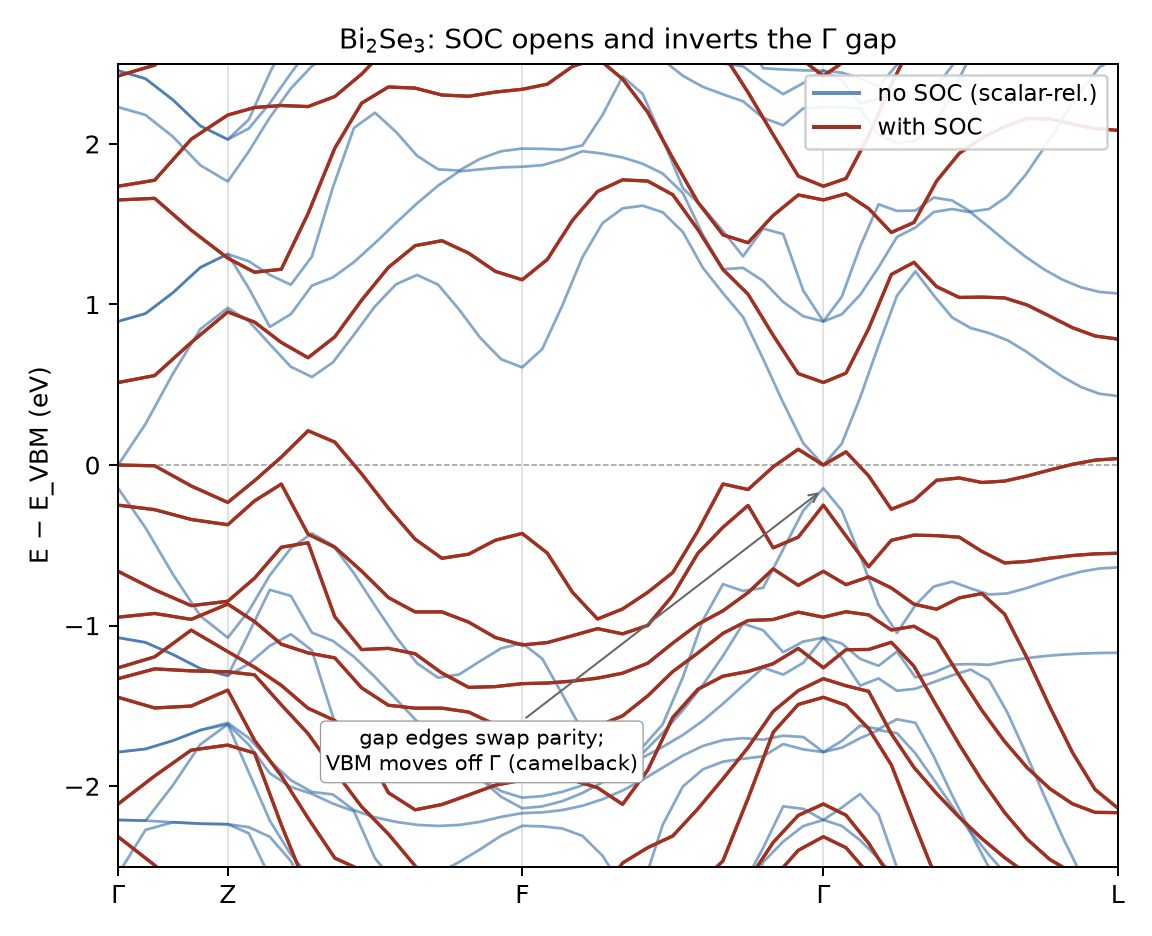
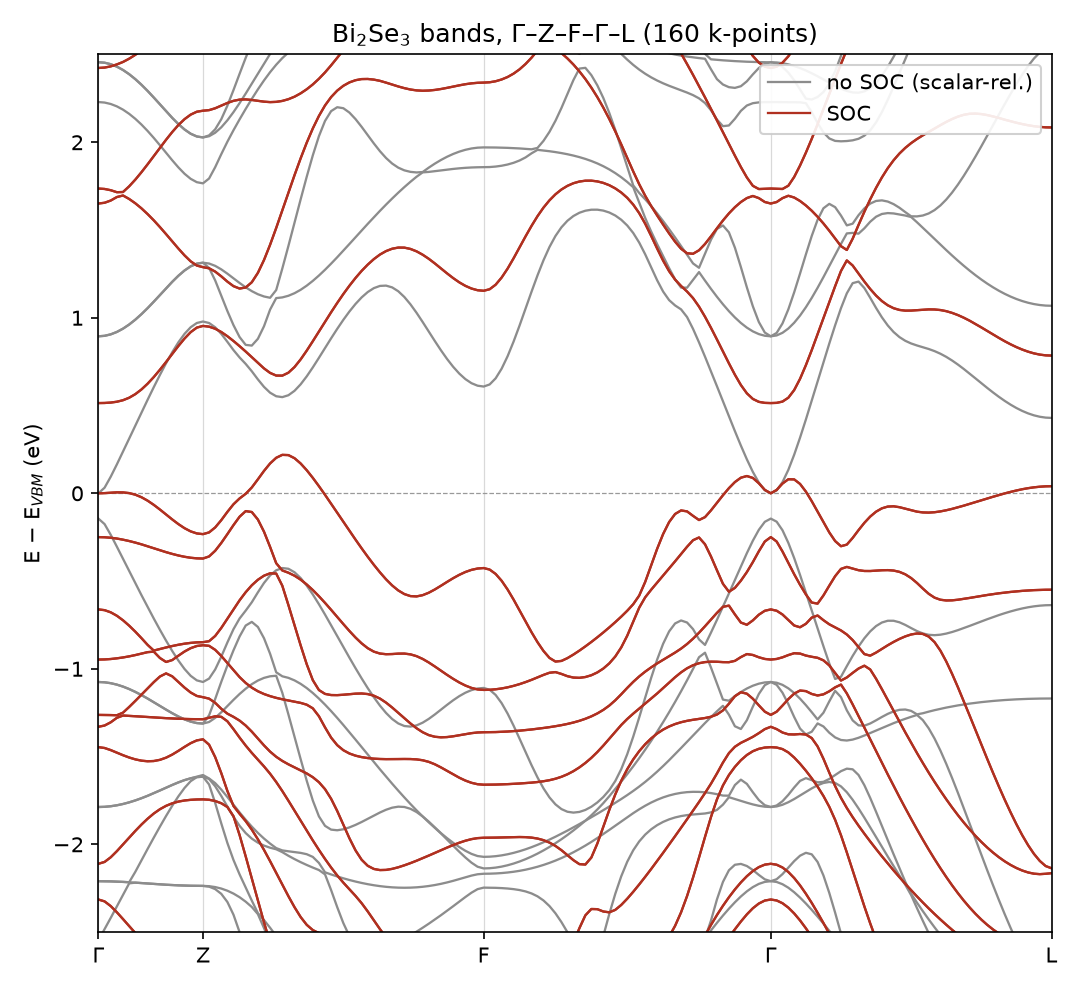
bands: restore the SOC spinor band path and ship a runnable Bi2Se3 example
band_structure_nc (frozen-potential spinor Davidson along an arbitrary k-path) was removed from scf/noncollinear.py, which left examples/bi2se3_bands_compare.py broken. Restore it, rebuild the example against the current API with an overlay-plot step, recover the dense 160-k SR-vs-SOC figure and JSONs, and add tests/integration/test_bands_nc.py so the path cannot silently rot again (band_structure_nc reproduces the SCF spectrum at mesh k-points).

diff --git a/examples/bi2se3_bands_compare.py b/examples/bi2se3_bands_compare.py
@@ -1,0 +1,182 @@
+"""Bi2Se3 band-structure comparison: scalar-relativistic (no SOC) vs SOC.
+
+Runs both branches along the SAME G-Z-F-G-L path with a shared k-point count
+so the two band structures overlay on one linear-k axis. This is the
+"more-k" companion to examples/bi2se3_inversion.py, which only probes the
+band inversion at Gamma.
+
+  no-SOC : SG15 scalar-relativistic pseudos, collinear PBE, bands_along_ase_path.
+  SOC    : PseudoDojo fully-relativistic (FR) pseudos, non-magnetic spinor
+           PBE, band_structure_nc (frozen-potential spinor Davidson).
+
+Writes bi2se3_sr_bands.json, bi2se3_soc_bands.json, and the overlay figure
+bi2se3_bands_overlay.png (the overlay needs matplotlib).
+
+Usage: python examples/bi2se3_bands_compare.py [npoints] [outdir]
+"""
+import json
+import sys
+import time
+
+import numpy as np
+import torch
+from ase import Atoms
+
+from gradwave.core.xc.noncollinear import NoncollinearXC
+from gradwave.core.xc.pbe import PBE
+from gradwave.core.xc.spin import SpinPBE
+from gradwave.postscf.bands import bands_along_ase_path
+from gradwave.pseudo.upf import parse_upf
+from gradwave.scf.loop import scf, setup_system
+from gradwave.scf.noncollinear import band_structure_nc, scf_noncollinear
+
+RY = 13.605693122994
+PSE = "tests/fixtures/qe/pseudos"
+
+A_HEX, C_HEX = 4.138, 28.64
+MU, NU = 0.399, 0.206
+CELL = np.array([
+    [A_HEX / 2, A_HEX / (2 * np.sqrt(3)), C_HEX / 3],
+    [-A_HEX / 2, A_HEX / (2 * np.sqrt(3)), C_HEX / 3],
+    [0.0, -A_HEX / np.sqrt(3), C_HEX / 3],
+])
+FRAC = np.array([[0, 0, 0], [NU, NU, NU], [-NU, -NU, -NU],
+                 [MU, MU, MU], [-MU, -MU, -MU]])
+SPECIES = [0, 0, 0, 1, 1]  # 0 = Se, 1 = Bi
+ECUT = 45 * RY
+
+
+def plot_overlay(sr_json, soc_json, out_png, npoints):
+    """SR (grey) vs SOC (red) overlay from the two band JSONs, VBM-referenced."""
+    try:
+        import matplotlib
+        matplotlib.use("Agg")
+        import matplotlib.pyplot as plt
+    except ImportError:
+        print("matplotlib not installed; skipping the overlay figure", flush=True)
+        return
+    sr = json.load(open(sr_json))
+    so = json.load(open(soc_json))
+    fig, ax = plt.subplots(figsize=(7.2, 6.6))
+    x_sr = np.asarray(sr["x"])
+    e_sr = np.asarray(sr["eigenvalues_eV"]) - sr["reference_eV"]
+    for b in range(e_sr.shape[1]):
+        ax.plot(x_sr, e_sr[:, b], color="0.55", lw=1.1, zorder=1,
+                label="no SOC (scalar-rel.)" if b == 0 else None)
+    x_so = np.asarray(so["x"])
+    e_so = np.asarray(so["eigenvalues_eV"]) - so["reference_eV"]
+    for b in range(e_so.shape[1]):
+        ax.plot(x_so, e_so[:, b], color="#b03020", lw=1.1, zorder=2,
+                label="SOC" if b == 0 else None)
+    for xt, _lab in so["labels"]:
+        ax.axvline(xt, color="0.85", lw=0.6, zorder=0)
+    ax.axhline(0.0, color="0.6", lw=0.6, ls="--", zorder=0)
+    ax.set_xticks([xt for xt, _ in so["labels"]])
+    ax.set_xticklabels([lab.replace("G", "Γ") for _, lab in so["labels"]])
+    ax.set_ylabel("E − E$_{VBM}$ (eV)")
+    ax.set_ylim(-2.5, 2.5)
+    ax.set_xlim(float(x_so[0]), float(x_so[-1]))
+    ax.set_title(f"Bi$_2$Se$_3$ bands, Γ–Z–F–Γ–L ({npoints} k-points)")
+    ax.legend(loc="upper right", framealpha=0.9)
+    fig.tight_layout()
+    fig.savefig(out_png, dpi=150)
+    print(f"  wrote {out_png}", flush=True)
+
+
+def main(npoints, outdir):
+    torch.set_num_threads(8)
+    dev = "cuda" if torch.cuda.is_available() else "cpu"
+    atoms = Atoms("Se3Bi2", scaled_positions=FRAC % 1.0, cell=CELL, pbc=True)
+    print(f"Bi2Se3 band comparison  npoints={npoints}  device={dev}", flush=True)
+
+    # ---------------- scalar-relativistic (no SOC) ----------------
+    print("\n=== no-SOC (SG15 SR pseudos, collinear PBE) ===", flush=True)
+    se = parse_upf(f"{PSE}/Se_ONCV_PBE-1.1.upf")
+    bi = parse_upf(f"{PSE}/Bi_ONCV_PBE-1.0.upf")
+    t0 = time.time()
+    sys_sr = setup_system(CELL, FRAC @ CELL, SPECIES, [se, bi], ecut=ECUT,
+                          kmesh=(2, 2, 2), nbands=30)
+    if dev != "cpu":
+        sys_sr = sys_sr.to(dev)
+    r_sr = scf(sys_sr, PBE(), smearing="gaussian", width=0.05,
+               etol=1e-7, rhotol=1e-6, verbose=False)
+    if dev != "cpu":
+        torch.cuda.synchronize()
+    t_sr_scf = time.time() - t0
+    print(f"  SCF conv={r_sr.converged} iters={r_sr.n_iter} "
+          f"ne={sys_sr.n_electrons:.0f} ({t_sr_scf:.0f}s)", flush=True)
+
+    t0 = time.time()
+    bs = bands_along_ase_path(r_sr, atoms, "GZFGL", npoints=npoints, nbands=30,
+                              verbose=True)
+    if dev != "cpu":
+        torch.cuda.synchronize()
+    t_sr_bands = time.time() - t0
+    json.dump({
+        "x": bs.x.tolist(), "labels": bs.labels,
+        "eigenvalues_eV": bs.eigenvalues.tolist(), "reference_eV": bs.reference,
+        "kpts_frac": bs.kpts_frac.tolist(),
+        "timings": {"scf_s": t_sr_scf, "bands_s": t_sr_bands},
+    }, open(f"{outdir}/bi2se3_sr_bands.json", "w"))
+    print(f"  bands ({t_sr_bands:.0f}s); wrote {outdir}/bi2se3_sr_bands.json",
+          flush=True)
+
+    # Release the SR allocator arena before the (heavier) SOC branch — otherwise
+    # PyTorch's cached SR blocks fragment the pool and the FR spinor SCF, which
+    # needs nearly the whole card, OOMs on a small (~6 GB) GPU.
+    del sys_sr, r_sr, se, bi
+    if dev != "cpu":
+        torch.cuda.empty_cache()
+
+    # ---------------- SOC (PseudoDojo FR, non-magnetic spinor) ----------------
+    print("\n=== SOC (PseudoDojo FR pseudos, non-magnetic spinor PBE) ===",
+          flush=True)
+    se_fr = parse_upf(f"{PSE}/PD_Se_FR.upf")
+    bi_fr = parse_upf(f"{PSE}/PD_Bi_FR.upf")
+    t0 = time.time()
+    sys_fr = setup_system(CELL, FRAC @ CELL, SPECIES, [se_fr, bi_fr], ecut=ECUT,
+                          kmesh=(2, 2, 2), nbands=45, time_reversal=False)
+    if dev != "cpu":
+        sys_fr = sys_fr.to(dev)
+    xc_nc = NoncollinearXC(SpinPBE())
+    r_fr = scf_noncollinear(sys_fr, xc_nc, mag_vec_init=[[0, 0, 0]] * 5,
+                            smearing="gaussian", width=0.05, etol=1e-7,
+                            rhotol=1e-6, verbose=False, nonmagnetic=True)
+    if dev != "cpu":
+        torch.cuda.synchronize()
+    t_fr_scf = time.time() - t0
+    nocc = int(round(sys_fr.n_electrons))  # spinor bands hold 1 electron each
+    print(f"  SCF conv={r_fr.converged} iters={r_fr.n_iter} ne={nocc} "
+          f"({t_fr_scf:.0f}s)", flush=True)
+
+    bp = atoms.cell.bandpath("GZFGL", npoints=npoints)
+    t0 = time.time()
+    eigs = band_structure_nc(r_fr, xc_nc, bp.kpts, nbands=88, verbose=True)
+    if dev != "cpu":
+        torch.cuda.synchronize()
+    t_fr_bands = time.time() - t0
+
+    x, xticks, xlabels = bp.get_linear_kpoint_axis()
+    # reference = VBM: highest occupied (index nocc-1) at Gamma
+    ik_gamma = int(np.argmin(np.linalg.norm(bp.kpts, axis=1)))
+    ref = float(np.sort(eigs[ik_gamma])[nocc - 1])
+    json.dump({
+        "x": x.tolist(),
+        "labels": list(zip(xticks.tolist(), list(xlabels), strict=True)),
+        "eigenvalues_eV": eigs.tolist(), "reference_eV": ref,
+        "kpts_frac": bp.kpts.tolist(), "n_occupied": nocc,
+        "timings": {"scf_s": t_fr_scf, "bands_s": t_fr_bands},
+    }, open(f"{outdir}/bi2se3_soc_bands.json", "w"))
+    print(f"  bands ({t_fr_bands:.0f}s); wrote {outdir}/bi2se3_soc_bands.json",
+          flush=True)
+
+    plot_overlay(f"{outdir}/bi2se3_sr_bands.json",
+                 f"{outdir}/bi2se3_soc_bands.json",
+                 f"{outdir}/bi2se3_bands_overlay.png", npoints)
+    print("\ndone.", flush=True)
+
+
+if __name__ == "__main__":
+    npoints = int(sys.argv[1]) if len(sys.argv) > 1 else 160
+    outdir = sys.argv[2] if len(sys.argv) > 2 else "."
+    main(npoints, outdir)

diff --git a/src/gradwave/scf/noncollinear.py b/src/gradwave/scf/noncollinear.py
@@ -449,3 +449,77 @@ def scf_noncollinear(
         rho=rho, m=m, eigenvalues=eigs, system=system, history=history,
         coeffs=coeffs,
     )
+
+
+def band_structure_nc(res: NCResult, xc: NoncollinearXC, kpts_frac,
+                      nbands: int | None = None, diago_tol: float = 1e-8,
+                      chunk: int = 4, verbose: bool = False,
+                      mixed_precision: bool = False):
+    """Spinor band energies along arbitrary k (SOC-aware): rebuilds the
+    converged potential from (ρ, m⃗) and solves per path chunk."""
+    import numpy as np
+
+    from gradwave.core.batch import build_batched
+    from gradwave.core.hamiltonian import build_projector_data
+    from gradwave.core.spinor_proj import build_so_projectors
+    from gradwave.grids import build_gsphere
+    from gradwave.pseudo.kb import beta_form_factors
+    from gradwave.solvers.davidson import davidson_batched_ms
+
+    system = res.system
+    grid = system.grid
+    device = res.rho.device
+    nbands = nbands or 2 * system.nbands
+    kpts = np.asarray(kpts_frac, dtype=float)
+
+    # rebuild converged V, B
+    rho_g_box = r_to_g(res.rho.to(CDTYPE))
+    v_h = (torch.fft.ifftn(hartree_potential_g(rho_g_box, grid.g2),
+                           dim=(-3, -2, -1)) * grid.n_points).real
+    v_xc, b_xc, _ = vxc_and_bxc(xc, res.rho, res.m, grid, rho_core=system.rho_core)
+    if float(res.m.abs().max()) < 1e-12:
+        b_xc = torch.zeros_like(b_xc)
+    vloc_g = local_potential_g(system.positions, system.species_index,
+                               system.vloc_tables, grid.g_cart, grid.volume)
+    vloc_r = (torch.fft.ifftn(vloc_g, dim=(-3, -2, -1)) * grid.n_points).real
+    v_r = v_h + v_xc + vloc_r
+
+    eigs = np.empty((len(kpts), nbands))
+    for lo in range(0, len(kpts), chunk):
+        hi = min(lo + chunk, len(kpts))
+        spheres = [build_gsphere(grid, system.ecut, k, device=device)
+                   for k in kpts[lo:hi]]
+        npw_max = max(sp.npw for sp in spheres)
+        so_tabs = [torch.zeros(hi - lo, u.n_proj, npw_max, dtype=RDTYPE, device=device)
+                   for u in system.upfs]
+        pd_list = []
+        for ic, sph in enumerate(spheres):
+            import numpy as _np
+
+            q = _np.sqrt(sph.kpg2.cpu().numpy())
+            for sp_i, u in enumerate(system.upfs):
+                so_tabs[sp_i][ic, :, : sph.npw] = torch.as_tensor(
+                    beta_form_factors(u, q), dtype=RDTYPE, device=device)
+            pd_list.append(build_projector_data(
+                sph, system.species_of_atom,
+                [t[ic, :0] for t in so_tabs], [[] for _ in system.upfs],
+                [torch.as_tensor(u.dij, dtype=RDTYPE, device=device)
+                 for u in system.upfs], grid.volume))
+        bk = build_batched(spheres, pd_list, device=device)
+        q_so, dij_so = build_so_projectors(bk, system, so_tables=so_tabs)
+        h = SpinorHamiltonian(bk, grid.shape, v_r, torch.zeros_like(b_xc)
+                              if float(res.m.abs().max()) < 1e-12 else b_xc,
+                              projectors_b(bk, system.positions),
+                              q=q_so, dij_so=dij_so)
+        c0 = torch.zeros(hi - lo, nbands, 2 * bk.npw_max, dtype=CDTYPE, device=device)
+        for b_i in range(nbands):
+            c0[:, b_i, (b_i // 2) + (b_i % 2) * bk.npw_max] = 1.0
+        t2 = torch.cat([bk.t, bk.t], dim=-1)
+        mask2 = torch.cat([bk.mask, bk.mask], dim=-1)
+        out = davidson_batched_ms(h.apply, c0, t2, mask2, tol=diago_tol,
+                                  max_iter=100, mixed_precision=mixed_precision)
+        eigs[lo:hi] = out.eigenvalues.cpu().numpy()
+        if verbose:
+            print(f"  nc-band chunk {lo}-{hi - 1}/{len(kpts) - 1} "
+                  f"res={float(out.residual_norms.max()):.1e}", flush=True)
+    return eigs

diff --git a/tests/integration/test_bands_nc.py b/tests/integration/test_bands_nc.py
@@ -1,0 +1,54 @@
+"""Regression for the non-collinear (SOC) band path, band_structure_nc.
+
+band_structure_nc rebuilds the converged (V, B) from the SCF density and runs a
+frozen-potential spinor Davidson at arbitrary k. At a k-point that lies in the
+SCF mesh it must reproduce that k-point's self-consistent eigenvalues. This
+guards the SOC band-structure path (examples/bi2se3_bands_compare.py) against
+silent removal, which is how band_structure_nc was lost once already.
+"""
+
+import json
+from pathlib import Path
+
+import numpy as np
+import pytest
+import torch
+
+from gradwave.core.xc.noncollinear import NoncollinearXC
+from gradwave.core.xc.spin import SpinPBE
+from gradwave.pseudo.upf import parse_upf
+from gradwave.scf.loop import setup_system
+from gradwave.scf.noncollinear import band_structure_nc, scf_noncollinear
+from tests.helpers import RY, si_fcc
+
+FIX = Path(__file__).parents[1] / "fixtures" / "qe"
+CELL, POS = si_fcc(5.653)
+
+pytestmark = pytest.mark.standard  # full SOC SCF; not a fast-gate test
+
+
+def test_bands_nc_reproduces_scf_spectrum_on_mesh():
+    torch.set_num_threads(4)
+    ga = parse_upf(FIX / "pseudos" / "Ga_ONCV_PBE_FR-1.0.upf")
+    as_ = parse_upf(FIX / "pseudos" / "As_ONCV_PBE_FR-1.1.upf")
+    ref = json.loads((FIX / "gaas_so_ci" / "reference.json").read_text())
+    system = setup_system(CELL, POS, [0, 1], [ga, as_], ecut=40 * RY,
+                          kmesh=(2, 2, 2), nbands=13, fft_shape=ref["fft_dims"],
+                          time_reversal=False)
+    xc = NoncollinearXC(SpinPBE())
+    res = scf_noncollinear(system, xc, mag_vec_init=[[0, 0, 0], [0, 0, 0]],
+                           smearing="gaussian", width=0.1, etol=1e-7,
+                           rhotol=1e-6, verbose=False, nonmagnetic=True)
+    assert res.converged
+
+    # Rebuild the spectrum at the SCF mesh k-points with the frozen-potential
+    # band solver; it must reproduce the SCF eigenvalues there.
+    kfrac = np.array([sp.k_frac for sp in system.spheres], dtype=float)
+    eigs = band_structure_nc(res, xc, kfrac, nbands=26, diago_tol=1e-9)
+
+    nb = 20  # occupied + low conduction spinor bands
+    for ik in range(len(kfrac)):
+        e_scf = np.sort(res.eigenvalues[ik].cpu().numpy())[:nb]
+        e_band = np.sort(eigs[ik])[:nb]
+        assert np.max(np.abs(e_scf - e_band)) < 1e-3, (
+            ik, float(np.max(np.abs(e_scf - e_band))))